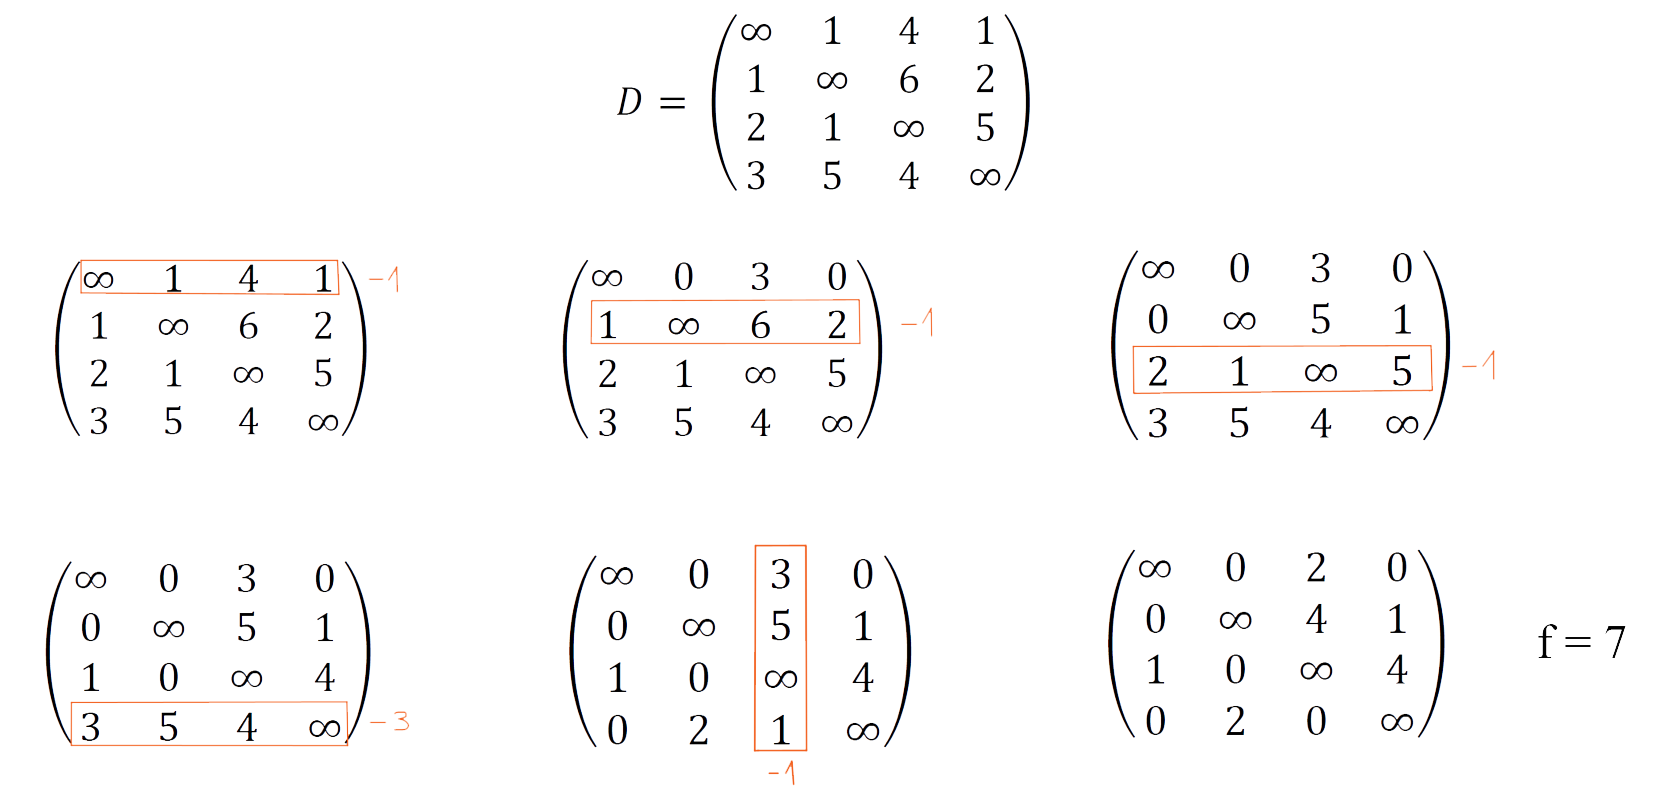
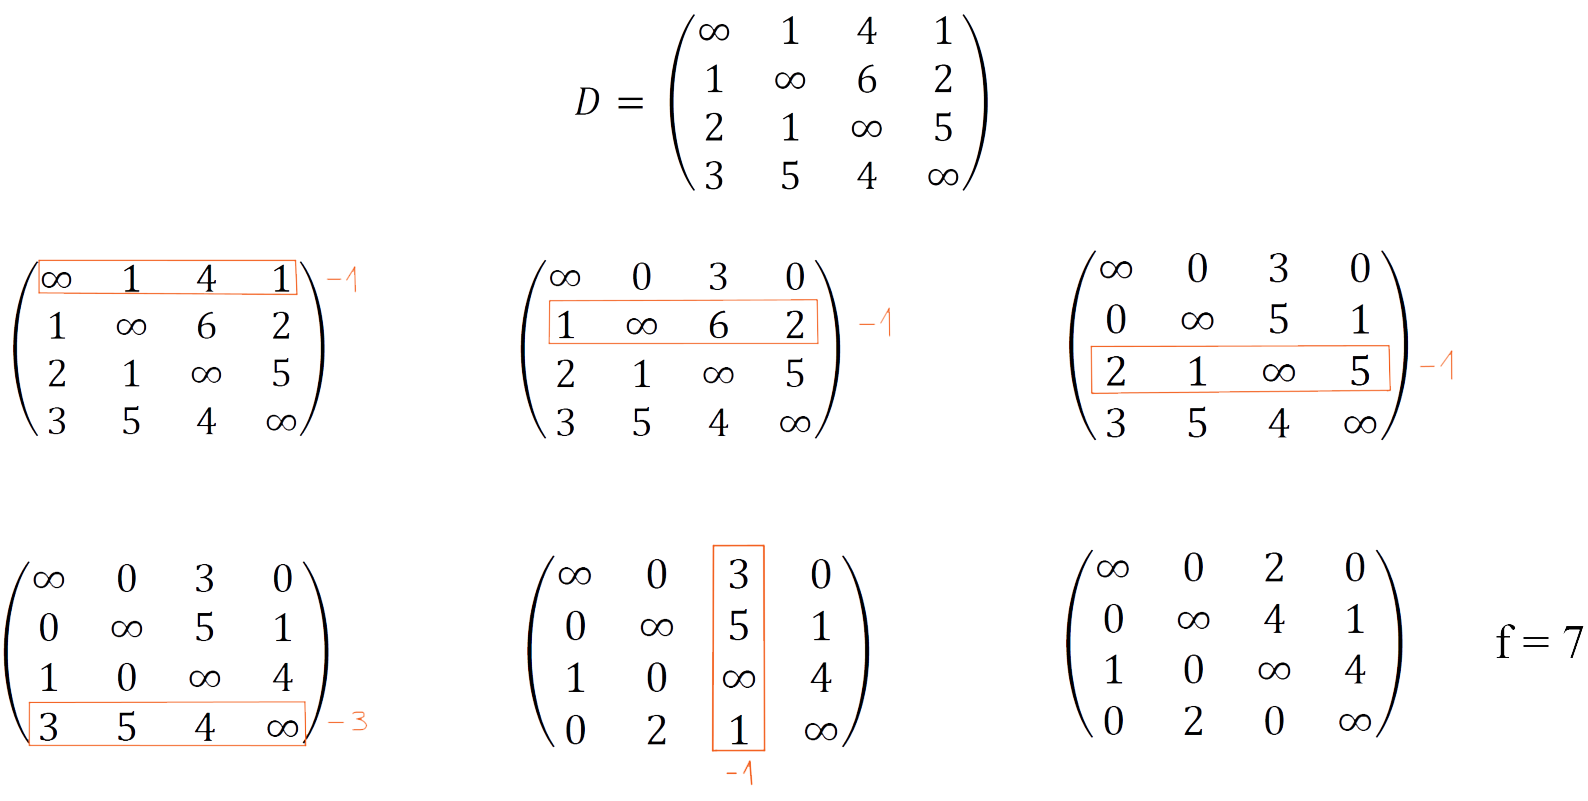
add some images

diff --git a/TSP/src/app/components/example-component/example-component.component.html b/TSP/src/app/components/example-component/example-component.component.html
@@ -132,12 +132,12 @@
 
                                 <table class="bb-parent-table">
                                     <tr>
-                                        <th *ngFor="let row of [' ', 1, 2, 3, 4]">
+                                        <th *ngFor="let row of [' ', 0, 1, 2, 3]">
                                             {{row}}
                                         </th>
                                     </tr>
                                     <tr *ngFor="let column of state.fromMatrix; index as indexC">
-                                        <th>{{indexC + 1}}</th>
+                                        <th>{{indexC}}</th>
                                         <td *ngFor="let elem of column">{{elem}}</td>
                                     </tr>
                                 </table>
@@ -279,8 +279,9 @@
                                         <p class="text-blue" style="margin-top: 5px">{{ 'carousel.start-node' | translate}}: 1 </p>
                                     </div>
 
-                                    <div *ngIf="i != 1">
-                                        <p class="text-blue">{{ 'carousel.farthest-node' | translate}}: {{state.chosen_node}} </p>
+                                    <div style="display: flex;" *ngIf="i != 1">
+                                        <img src="./assets/images/nodes.png" height="40px" style="margin-right: 10px">
+                                        <p class="text-blue" style="margin-top: 5px">{{ 'carousel.farthest-node' | translate}}: {{state.chosen_node}} </p>
                                     </div>
                                     
                                     <div  class="text-blue" style="display: flex;">
@@ -417,8 +418,11 @@
                                 </div>
 
                                 <div *ngIf="i != 0">
-                                    <p class="text-blue"> {{'carousel.nearest-node' | translate}} : {{state.chosen_node}} </p>
-                                    
+                                    <div style="display: flex;">
+                                        <img src="./assets/images/nodes.png" height="40px" style="margin-right: 10px">
+                                        <p class="text-blue" style="margin-top: 5px"> {{'carousel.nearest-node' | translate}} : {{state.chosen_node}} </p>
+                                    </div>
+                                   
                                     <div class="text-blue" style="display: flex;">
                                         <img src="./assets/images/distance.png" height="30px">
                                         <p style="margin-top: 5px; margin-left: 5px;"> {{'carousel.distance-node-cycle' | translate}} : {{state.chosen_distance}} </p>

diff --git a/TSP/src/app/components/approximation-algorithms/approximation-algorithms.component.html b/TSP/src/app/components/approximation-algorithms/approximation-algorithms.component.html
@@ -160,11 +160,17 @@
             <img src="./assets/images/theorem.png" class="icon-theorem">
             <p class="highlight">{{ 'general.theorem' | translate }}</p>
         </div>
-        <p>{{ 'approximations-algorithms.christofides-algorithm.steps-christofides.christofides-approximation-theorem.0' | translate }}</p>
         
-        <div class="formula-container">
-            <p class="formula" style="background-color:#cbb281">{{ 'approximations-algorithms.christofides-algorithm.steps-christofides.christofides-approximation-theorem.1' | translate }} </p>      
-        </div>
+        <p>{{ 'approximations-algorithms.christofides-algorithm.steps-christofides.christofides-approximation-theorem.0' | translate }}</p>  
+          
+        <div class="text-image-side">
+            <div class="formula-container">
+                <p class="formula" style="background-color:#cbb281">{{ 'approximations-algorithms.christofides-algorithm.steps-christofides.christofides-approximation-theorem.1' | translate }} </p>      
+            </div>
+            <div class="display-image-next-to-text">
+                <img src="../../../assets/images/christofides/match-approx-demonstration.png" alt="Reduction algorithm ilustrated in a given matrix">
+            </div>
+        </div>      
     </div>
 
     <div class="display-image-gallery">

diff --git a/TSP/src/app/components/exact-algorithms/exact-algorithms.component.html b/TSP/src/app/components/exact-algorithms/exact-algorithms.component.html
@@ -199,13 +199,18 @@
         </ul>
     </div>
 
+    <div class="formula-container">
+        <p class="formula">{{ 'exact-algorithms.branch-and-bound.construction.solution.text' | translate }}  {{ 'exact-algorithms.branch-and-bound.construction.solution.formula' | translate }} </p>
+    </div>
+
     <h4 style="text-decoration:underline;">{{ 'exact-algorithms.branch-and-bound.construction.example-on-a-given-matrix' | translate }}</h4>
     <div class="display-image-gallery">
         <img src="../../../assets/images/example-reduction-matrix-bb.png" alt="Reduction algorithm ilustrated in a given matrix">
     </div>
-    
-    <div class="formula-container">
-        <p class="formula">{{ 'exact-algorithms.branch-and-bound.construction.solution.text' | translate }}  {{ 'exact-algorithms.branch-and-bound.construction.solution.formula' | translate }} </p>
+
+    <h4 style="text-decoration:underline;">{{ 'exact-algorithms.branch-and-bound.construction.example-on-a-given-reduced-matrix' | translate }}</h4>
+    <div class="display-image-gallery">
+        <img src="../../../assets/images/example-reduction-matrix-2-bb.png" alt="Reduction algorithm ilustrated in a given matrix">
     </div>
     
     <app-example-component [example]="'branch-and-bound'"></app-example-component>

diff --git a/TSP/src/app/components/about-tsp/about-tsp.component.html b/TSP/src/app/components/about-tsp/about-tsp.component.html
@@ -126,6 +126,10 @@
 
         <p style="margin-bottom:0px; margin-top:10px; text-decoration:underline;">{{ 'about-tsp.np-completeness.tsp-is-np-complete.demonstration' | translate }}:</p>
         <p>{{ 'about-tsp.np-completeness.tsp-is-np-complete.text' | translate }}</p>
+
+        <div class="display-images">
+            <img src="../../../assets/images/np-completeness.png" alt="NP completeness demonstration on graphs">
+        </div>
     </div>
 
     <p class="italic-text">{{ 'about-tsp.np-completeness.conclusion' | translate }}</p>

diff --git a/TSP/src/styles.scss b/TSP/src/styles.scss
@@ -45,12 +45,11 @@ body { margin: 0; font-family: Arial, Helvetica, sans-serif; font-size:18px; }
     text-align: center;
     font-family: 'Noto Sans Math', sans-serif;
     font-weight: 600;
-
-    padding: 10px; // sau 15 incearca
+    padding: 10px; 
     padding-left: 20px;
     padding-right: 20px;
     background-color: #d373ff8f;
-    width: fit-content; // daca arata naspa da-i width = in pixeli
+    width: fit-content; 
     border-radius: 10px;
 }
 

diff --git a/TSP/src/app/components/input-output-section/input-output-section.component.html b/TSP/src/app/components/input-output-section/input-output-section.component.html
@@ -223,7 +223,7 @@
         class="mat-pagionator-styling">
     </mat-paginator>
     
-    <div *ngIf="currentSubsection === branchAndBound">
+    <div *ngIf="currentSubsection === branchAndBound && responseBB.solution !== -1">
 
         <ngb-carousel id="carousel" [interval]="0">
             <ng-template ngbSlide *ngFor="let step of responseBB.steps; let i = index">  

diff --git a/TSP/src/app/components/approximation-algorithms/approximation-algorithms.component.scss b/TSP/src/app/components/approximation-algorithms/approximation-algorithms.component.scss
@@ -19,6 +19,15 @@ div {
     grid-gap: 40px;
 }
 
+.display-image-next-to-text {
+    width: 50%;
+    margin: auto;
+
+    img {
+        width: 100%;
+    }
+}
+
 .text-slider-side{
     display: grid;
     grid-template-columns: 60% auto;

diff --git a/TSP/src/app/components/example-component/example-component.component.scss b/TSP/src/app/components/example-component/example-component.component.scss
@@ -256,7 +256,7 @@
         min-width: 10px;
         padding-top: 5px;
         height: 35px;
-        width: 7ch;
+        width: 5ch;
         text-align: center;
         background-color: rgb(122, 122, 122);
     }

diff --git a/TSP/src/app/components/about-tsp/about-tsp.component.scss b/TSP/src/app/components/about-tsp/about-tsp.component.scss
@@ -39,3 +39,12 @@ div, p {
         background-color: #dfcca8;
     }
 }
+
+.display-images {
+    width: 85%;
+    margin: 35px auto 40px auto;
+
+    img {
+        width: 100%;
+    }
+}
